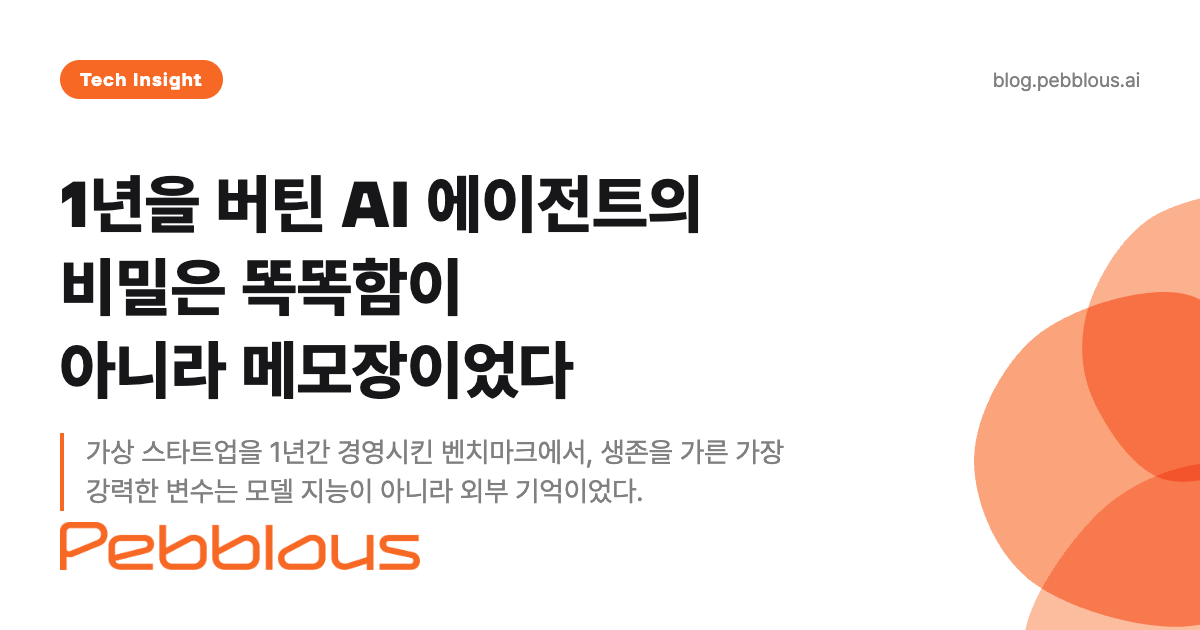
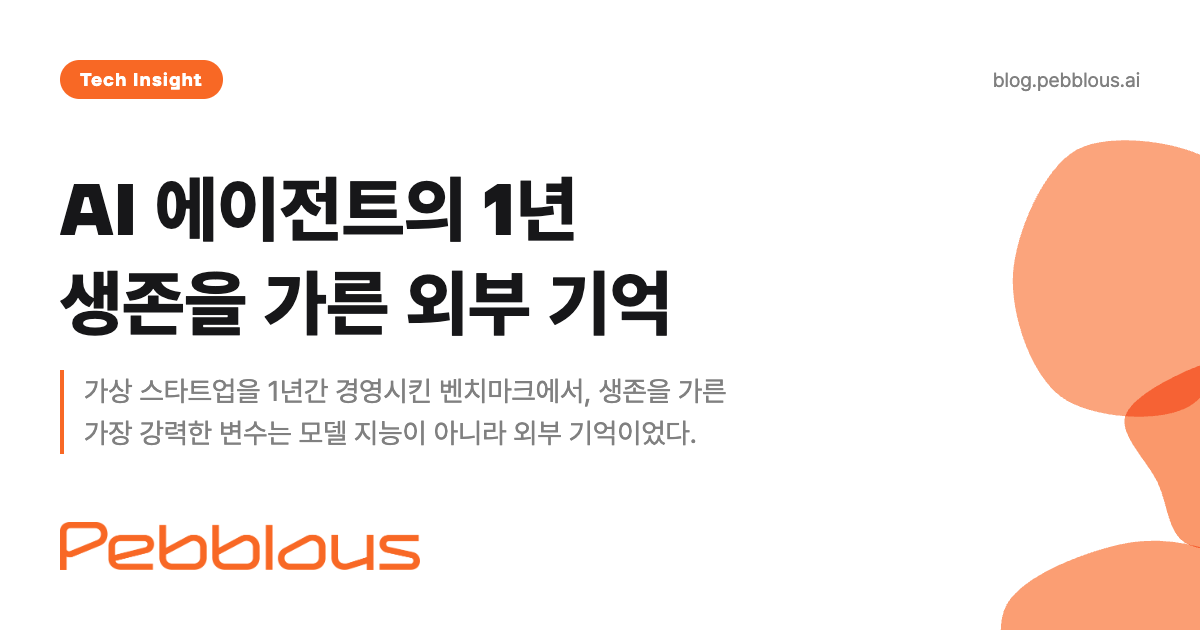
chore(titles): 제목·메타 일괄 교정 3건/3필드 (제목 검토 콘솔)\n\n- data-governance-12x-agent-deployment-ko:\n    제목: 거버넌스는 비용이 아니라, 배포 12배의 지렛대였다 → 에이전트 배포 12배를 만든 데이터 거버넌스\n      · og:title: 거버넌스는 비용이 아니라, 배포 12배의 지렛대였다 → 에이전트 배포 12배를 만든 데이터 거버넌스\n      · og:image:alt: 데이터 거버넌스와 AI 에이전트 프로덕션 배포 12배 → 에이전트 배포 12배를 만

Changed region(s): [[0.0308, 0.2714, 0.6475, 0.8143], [0.8017, 0.2111, 1.0, 1.0]]

diff --git a/blog/agent-endurance-is-memory-not-intelligence/ko/index.html b/blog/agent-endurance-is-memory-not-intelligence/ko/index.html
@@ -21,23 +21,23 @@
 
     <!-- Open Graph -->
     <meta property="og:type" content="article">
-    <meta property="og:title" content="1년을 버틴 AI 에이전트의 비밀은 똑똑함이 아니라 메모장이었다">
+    <meta property="og:title" content="AI 에이전트의 1년 생존을 가른 외부 기억">
     <meta property="og:description" content="가상 스타트업을 1년간 경영시킨 벤치마크에서, 생존을 가른 가장 강력한 변수는 모델 지능이 아니라 외부 기억이었다.">
     <meta property="og:url" content="https://blog.pebblous.ai/blog/agent-endurance-is-memory-not-intelligence/ko/">
     <meta property="og:image" content="https://blog.pebblous.ai/blog/agent-endurance-is-memory-not-intelligence/ko/image/index.png">
     <meta property="og:image:width" content="1200">
     <meta property="og:image:height" content="630">
-    <meta property="og:image:alt" content="1년을 버틴 AI 에이전트의 비밀은 똑똑함이 아니라 메모장이었다">
+    <meta property="og:image:alt" content="AI 에이전트의 1년 생존을 가른 외부 기억">
     <meta property="og:site_name" content="페블러스 블로그">
     <meta property="og:locale" content="ko_KR">
     <meta property="article:published_time" content="2026-06-17">
 
     <!-- Twitter Card -->
     <meta name="twitter:card" content="summary_large_image">
-    <meta name="twitter:title" content="1년을 버틴 AI 에이전트의 비밀은 똑똑함이 아니라 메모장이었다">
+    <meta name="twitter:title" content="AI 에이전트의 1년 생존을 가른 외부 기억">
     <meta name="twitter:description" content="생존을 가른 가장 강력한 변수는 모델 지능이 아니라 '받아 적었는가'였다 — YC-Bench·Mirage·METR로 본 에이전트 지구력의 병목.">
     <meta name="twitter:image" content="https://blog.pebblous.ai/blog/agent-endurance-is-memory-not-intelligence/ko/image/index.png">
-    <meta name="twitter:image:alt" content="에이전트의 지구력은 외부 기억에서 나온다">
+    <meta name="twitter:image:alt" content="AI 에이전트의 1년 생존을 가른 외부 기억">
     <meta name="twitter:site" content="@pebblous_ai">
     <meta name="twitter:creator" content="@pebblous_ai">
 
@@ -54,7 +54,7 @@
     })(window,document,'script','dataLayer','GTM-57L9F58B');</script>
 
     <!-- Google Scholar citation meta -->
-    <meta name="citation_title" content="1년을 버틴 AI 에이전트의 비밀은 똑똑함이 아니라 메모장이었다">
+    <meta name="citation_title" content="AI 에이전트의 1년 생존을 가른 외부 기억">
     <meta name="citation_author" content="(주)페블러스 데이터 커뮤니케이션팀">
     <meta name="citation_publication_date" content="2026/06/17">
     <meta name="citation_online_date" content="2026/06/17">
@@ -396,7 +396,7 @@
               },
               "recordedAt": "2026-06-17T03:34:42.745Z"
             },
-            mainTitle: "1년을 버틴 AI 에이전트의 비밀은 똑똑함이 아니라 메모장이었다",
+            mainTitle: "AI 에이전트의 1년 생존을 가른 외부 기억",
             subtitle: "가상 스타트업을 1년간 경영시킨 벤치마크에서, 생존을 가른 가장 강력한 변수는 모델 지능이 아니라 외부 기억이었다",
             pageTitle: "AI 에이전트 메모리: 롱 호라이즌 에이전트가 1년을 버틴 비밀 | 페블러스",
             category: "tech",

diff --git a/report/colorado-ai-act-sb26-189-admt-regulation/ko/index.html b/report/colorado-ai-act-sb26-189-admt-regulation/ko/index.html
@@ -21,13 +21,13 @@
 
     <!-- Open Graph -->
     <meta property="og:type" content="article">
-    <meta property="og:title" content="콜로라도가 자기 AI법을 다시 썼다 — SB 26-189가 ADMT에 묻는 다섯 가지">
+    <meta property="og:title" content="콜로라도가 자기 AI법을 다시 썼다">
     <meta property="og:description" content="미국 최초 포괄적 AI 규제법 SB 21-169가 5년 만에 SB 26-189로 다시 쓰였다. ADMT 정의, 개발자-배포자 분리, 소비자 3대 권리, 컴플라이언스 로드맵을 분석한다.">
     <meta property="og:url" content="https://blog.pebblous.ai/report/colorado-ai-act-sb26-189-admt-regulation/ko/">
     <meta property="og:image" content="https://blog.pebblous.ai/report/colorado-ai-act-sb26-189-admt-regulation/ko/image/index.png">
     <meta property="og:image:width" content="1200">
     <meta property="og:image:height" content="630">
-    <meta property="og:image:alt" content="콜로라도 SB 26-189 ADMT 규제 심층 분석 보고서">
+    <meta property="og:image:alt" content="콜로라도가 자기 AI법을 다시 썼다">
     <meta property="og:site_name" content="Pebblous Blog">
     <meta property="og:locale" content="ko_KR">
 
@@ -35,13 +35,13 @@
     <meta name="twitter:card" content="summary_large_image">
     <meta name="twitter:site" content="@pebblous_ai">
     <meta name="twitter:creator" content="@pebblous_ai">
-    <meta name="twitter:title" content="콜로라도가 자기 AI법을 다시 썼다 — SB 26-189가 ADMT에 묻는 다섯 가지">
+    <meta name="twitter:title" content="콜로라도가 자기 AI법을 다시 썼다">
     <meta name="twitter:description" content="2027-01-01 발효까지 7개월. ADMT 정의, 개발자-배포자 분리, 소비자 3대 권리, 데이터 출처성이 컴플라이언스의 1차 관문이 되는 이유.">
     <meta name="twitter:image" content="https://blog.pebblous.ai/report/colorado-ai-act-sb26-189-admt-regulation/ko/image/index.png">
-    <meta name="twitter:image:alt" content="콜로라도 SB 26-189 ADMT 규제 심층 분석">
+    <meta name="twitter:image:alt" content="콜로라도가 자기 AI법을 다시 썼다">
 
     <!-- Google Scholar Citation Meta -->
-    <meta name="citation_title" content="콜로라도가 자기 AI법을 다시 썼다 — SB 26-189가 ADMT에 묻는 다섯 가지">
+    <meta name="citation_title" content="콜로라도가 자기 AI법을 다시 썼다">
     <meta name="citation_author" content="Pebblous Data Communication Team">
     <meta name="citation_publication_date" content="2026/06/03">
     <meta name="citation_online_date" content="2026/06/03">

diff --git a/blog/data-governance-12x-agent-deployment/ko/index.html b/blog/data-governance-12x-agent-deployment/ko/index.html
@@ -20,21 +20,21 @@
     <link rel="alternate" hreflang="x-default" href="https://blog.pebblous.ai/blog/data-governance-12x-agent-deployment/ko/">
 
     <meta property="og:type" content="article">
-    <meta property="og:title" content="거버넌스는 비용이 아니라, 배포 12배의 지렛대였다">
+    <meta property="og:title" content="에이전트 배포 12배를 만든 데이터 거버넌스">
     <meta property="og:description" content="20,000개 조직 데이터가 증명한 것 — 준비도의 가치가 마침내 숫자가 됐다.">
     <meta property="og:url" content="https://blog.pebblous.ai/blog/data-governance-12x-agent-deployment/ko/">
     <meta property="og:image" content="https://blog.pebblous.ai/blog/data-governance-12x-agent-deployment/ko/image/index.png">
     <meta property="og:image:width" content="1200">
     <meta property="og:image:height" content="630">
-    <meta property="og:image:alt" content="데이터 거버넌스와 AI 에이전트 프로덕션 배포 12배">
+    <meta property="og:image:alt" content="에이전트 배포 12배를 만든 데이터 거버넌스">
     <meta property="og:site_name" content="페블러스 블로그">
     <meta property="og:locale" content="ko_KR">
 
     <meta name="twitter:card" content="summary_large_image">
-    <meta name="twitter:title" content="거버넌스는 비용이 아니라, 배포 12배의 지렛대였다">
+    <meta name="twitter:title" content="에이전트 배포 12배를 만든 데이터 거버넌스">
     <meta name="twitter:description" content="20,000개 조직 데이터가 증명한 것 — 준비도의 가치가 마침내 숫자가 됐다.">
     <meta name="twitter:image" content="https://blog.pebblous.ai/blog/data-governance-12x-agent-deployment/ko/image/index.png">
-    <meta name="twitter:image:alt" content="데이터 거버넌스와 AI 에이전트 프로덕션 배포 12배">
+    <meta name="twitter:image:alt" content="에이전트 배포 12배를 만든 데이터 거버넌스">
     <meta name="twitter:site" content="@pebblous_ai">
     <meta name="twitter:creator" content="@pebblous_ai">
 
@@ -408,7 +408,7 @@
   },
   "recordedAt": "2026-07-04T01:30:00.590Z"
 },
-            mainTitle: "거버넌스는 비용이 아니라, 배포 12배의 지렛대였다",
+            mainTitle: "에이전트 배포 12배를 만든 데이터 거버넌스",
             subtitle: "20,000개 조직 데이터가 증명한 것 — 준비도의 가치가 마침내 숫자가 됐다",
             pageTitle: "데이터 거버넌스와 AI 에이전트 배포 12배 — Databricks 2026 | 페블러스",
             category: "business",
